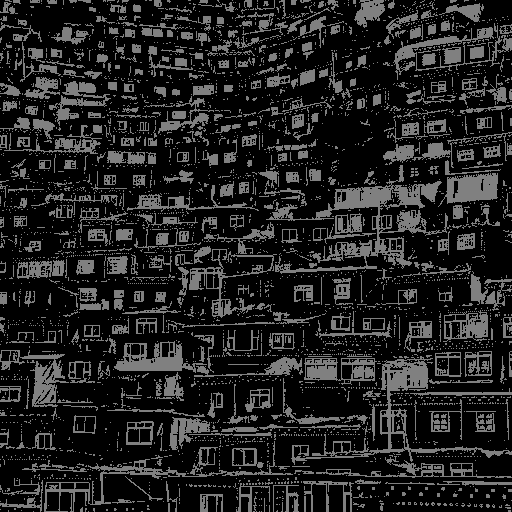
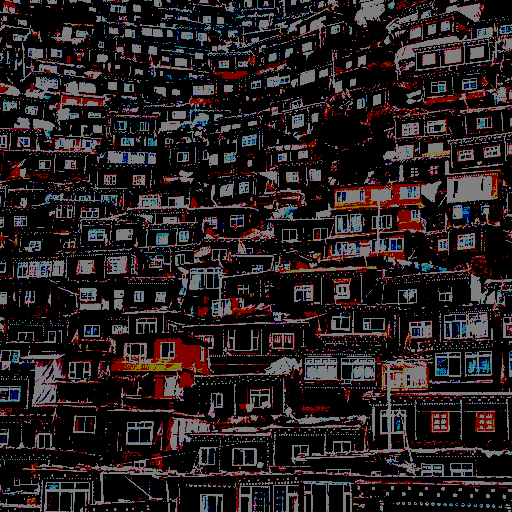
Update Readme

diff --git a/steganography.py b/steganography.py
@@ -2,33 +2,11 @@
 import cv2
 import numpy as np
 
-MainHeader = '''
-┏━┓╺┳╸┏━╸┏━╸┏━┓┏┓╻┏━┓┏━╸┏━┓┏━┓┏━┓╻ ╻╻ ╻       Hide an Image within another
-┗━┓ ┃ ┣╸ ┃╺┓┣━┫┃┗┫┃ ┃┃╺┓┣┳┛┣━┫┣━┛┣━┫┗┳┛                   by
-┗━┛ ╹ ┗━╸┗━┛╹ ╹╹ ╹┗━┛┗━┛╹┗╸╹ ╹╹  ╹ ╹ ╹                @mhsattarian
-
-'''
-print(MainHeader)
-
 class Steganography:
 
   def __init__(self, imageColorBits = 8):
     # Assume Images have 8 bit to store colors
     self.imageColorBits = imageColorBits
-
-  # def get_high_order_bits(self, number, numberOfBits = 4):
-  #   # Calculate number of bits to shift right
-  #   n = self.imageColorBits - numberOfBits
-  #   # Shift right to remove extra bits
-  #   temp = number >> n
-  #   # Return 8-bit Number with just <numberOfBits> hight value bits
-  #   return temp << n
-  
-  # def set_high_order_as_low(self, number, numberOfBits = 4):
-  #   # Calculate number of bits to shift right
-  #   n = self.imageColorBits - numberOfBits
-  #   # Shift right to make high-order bits low-order
-  #   return number >> n
 
   def compress_image(self, image, setLowOrder = False, numberOfBits = 4):
     """Compress image by removing low-order bits"""
@@ -38,27 +16,40 @@ class Steganography:
     else: return imageShiftedRight
 
   def encode_images(self, image1, image2):
-    if type(image1) == 'str': pass
-    if type(image1) == 'str': pass
+    if type(image1) == 'str': image1 = cv2.imread(image1)
+    if type(image2) == 'str': image2 = cv2.imread(image2)
     
     container = self.compress_image(image1)
     containee = self.compress_image(image2, setLowOrder = True)
     
     return container | containee
 
-  def funcname(self, parameter_list):
-    pass
+  def decode_image(self, image, numberOfBits = 4):
+    numberOfBits = self.imageColorBits - numberOfBits
+    codedImage = np.bitwise_and(image, pow(2, numberOfBits) - 1)
+    return np.left_shift(codedImage, numberOfBits)
     
 
-
 if __name__ == '__main__':
+  MainHeader = '''
+  ┏━┓╺┳╸┏━╸┏━╸┏━┓┏┓╻┏━┓┏━╸┏━┓┏━┓┏━┓╻ ╻╻ ╻       Hide an Image within another
+  ┗━┓ ┃ ┣╸ ┃╺┓┣━┫┃┗┫┃ ┃┃╺┓┣┳┛┣━┫┣━┛┣━┫┗┳┛                   by
+  ┗━┛ ╹ ┗━╸┗━┛╹ ╹╹ ╹┗━┛┗━┛╹┗╸╹ ╹╹  ╹ ╹ ╹                @mhsattarian
+
+  '''
+  print(MainHeader)
+
+
   container = cv2.imread('images/container.png')
   containee = cv2.imread('images/containee.png')
 
   s = Steganography()
   output = s.encode_images(container, containee)
-
   cv2.imwrite("images/output.png", output)
+  
+  codedImage = s.decode_image(output)
+  cv2.imwrite("images/coded.png", codedImage)
+
   print("- output stored in Images directory.")
 
   # cv2.imshow("container", container)

diff --git a/image_per_n_high_bit.py b/image_per_n_high_bit.py
@@ -3,7 +3,7 @@ import numpy as np
 from steganography import Steganography
 from tqdm import tqdm
 
-image = cv2.imread('images/container.png', 0)
+image = cv2.imread('images/container.png')
 s = Steganography()
 
 for i in tqdm(range(9)):

diff --git a/Readme.md b/Readme.md
@@ -23,10 +23,3 @@ so here we use an image as container also called `container.png` and another one
 ```shell
 python steganography.py
 ```
-
-#### TODOs:
-
-- Add decode functionality
-- Complete CLI features
-- Support Colored images
-- Bossting things up using cython or numpy on gpu
